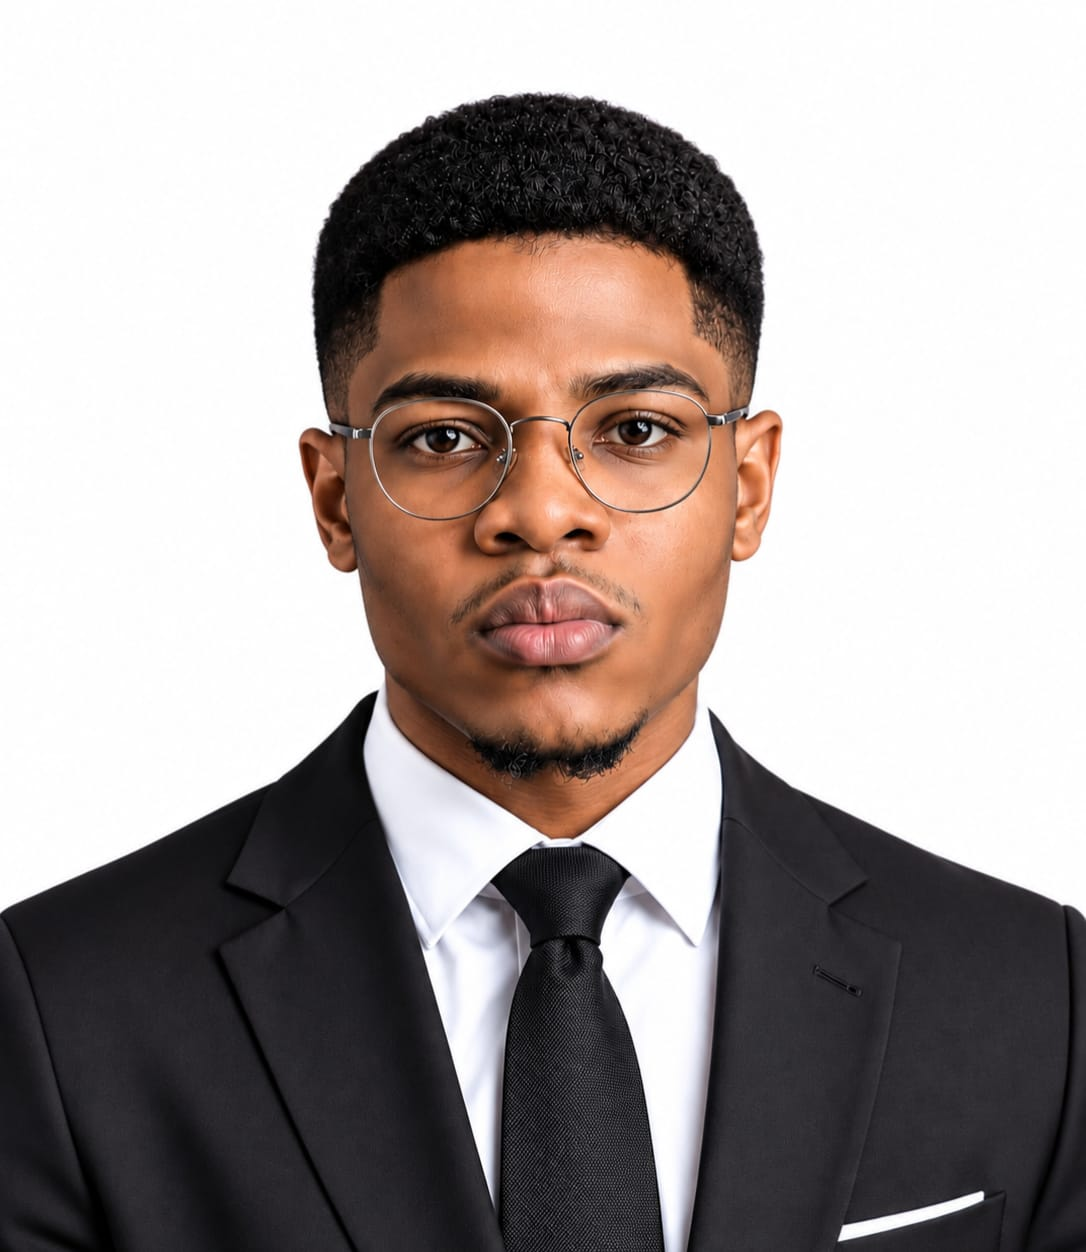
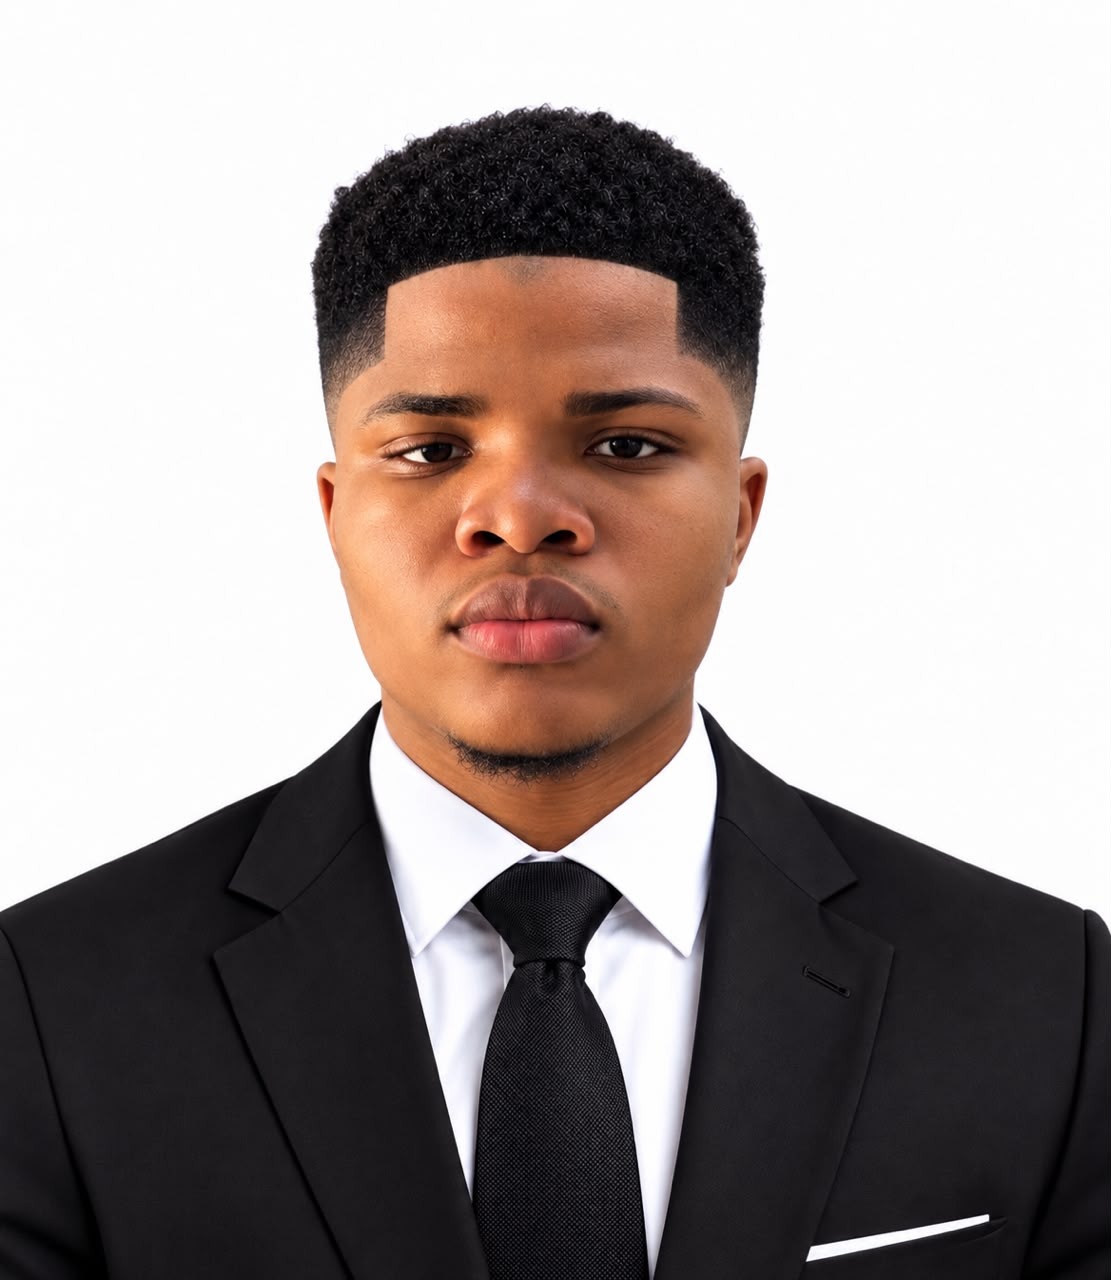
feat: more updates

diff --git a/data/projects.ts b/data/projects.ts
@@ -10,7 +10,11 @@ import {
 } from './media';
 
 export type ProjectStatus =
-  'Currently Selling' | 'Ongoing' | 'Completed' | 'Coming Soon';
+  | 'Currently Selling'
+  | 'Almost Sold Out'
+  | 'Ongoing'
+  | 'Completed'
+  | 'Coming Soon';
 
 export type Project = {
   slug: string;
@@ -61,7 +65,7 @@ export const projects: Project[] = [
     company: beaverstone,
     name: 'Roceilli',
     location: 'Grace City Estate (Phase 1), Dakwa District, Abuja',
-    status: 'Ongoing',
+    status: 'Currently Selling',
     category: 'Luxury Duplexes',
     tagline: 'Elegance, comfort and lasting value.',
     summary:
@@ -109,7 +113,7 @@ export const projects: Project[] = [
       { label: 'Carcass Price', value: '₦90,000,000' },
       { label: 'Pre-finished Price', value: '₦150,000,000' },
       { label: 'Finished Price', value: '₦180,000,000' },
-      { label: 'Project Status', value: 'Under Construction' },
+      // { label: 'Project Status', value: 'Under Construction' },
       { label: 'Completion', value: 'Q2 2027' },
       { label: 'Land Title', value: 'Right of Occupancy' },
     ],
@@ -124,7 +128,7 @@ export const projects: Project[] = [
     company: beaverstone,
     name: 'The Brooksville Estate',
     location: 'Hutu Exclusive Phase 2, Lugbe, Airport Road, Abuja',
-    status: 'Currently Selling',
+    status: 'Almost Sold Out',
     category: 'Land & Terraced Duplexes',
     tagline: 'Own Your Land. Build Your Future.',
     summary:
@@ -164,7 +168,7 @@ export const projects: Project[] = [
       { label: 'Total Units', value: '12' },
       { label: 'Land Price', value: '₦22,150,000' },
       { label: 'Duplex Price', value: '₦150,000,000' },
-      { label: 'Project Status', value: 'Currently Selling' },
+      { label: 'Project Status', value: 'Almost Sold Out' },
       { label: 'Completion', value: 'Q2 2027' },
       { label: 'Land Title', value: 'Certificate of Occupancy' },
     ],
@@ -230,7 +234,7 @@ export const projects: Project[] = [
     company: beaverstone,
     name: 'Beaverstone Nok Residence',
     location: 'Grace City Estate (Phase 1), Dakwa District, Abuja',
-    status: 'Ongoing',
+    status: 'Currently Selling',
     category: 'Luxury Duplexes',
     tagline: 'Elegance, comfort and lasting value.',
     summary:
@@ -278,7 +282,7 @@ export const projects: Project[] = [
       { label: 'Carcass Price', value: '₦90,000,000' },
       { label: 'Pre-finished Price', value: '₦150,000,000' },
       { label: 'Finished Price', value: '₦180,000,000' },
-      { label: 'Project Status', value: 'Under Construction' },
+      // { label: 'Project Status', value: 'Under Construction' },
       { label: 'Completion', value: 'Q4 2027' },
       { label: 'Land Title', value: "Governor's Consent" },
     ],
@@ -293,7 +297,7 @@ export const projects: Project[] = [
     company: beaverstone,
     name: 'The Eden Crown Estates',
     location: 'Katampe Extension, Abuja',
-    status: 'Ongoing',
+    status: 'Currently Selling',
     category: 'Terraced Duplexes',
     tagline: 'Refined Living. Elevated by Design.',
     summary:
@@ -322,7 +326,7 @@ export const projects: Project[] = [
       { label: 'Floors', value: '3' },
       { label: 'Total Units', value: '10' },
       { label: 'Starting Price', value: '₦370,000,000' },
-      { label: 'Project Status', value: 'Under Construction' },
+      // { label: 'Project Status', value: 'Under Construction' },
       { label: 'Completion', value: 'Q3 2027' },
       { label: 'Land Title', value: 'Certificate of Occupancy' },
     ],
@@ -337,7 +341,7 @@ export const projects: Project[] = [
     company: beaverstone,
     name: 'Nelmond Metropolis',
     location: 'Efab Metropolis, Karsana, Abuja',
-    status: 'Ongoing',
+    status: 'Currently Selling',
     category: 'Detached Duplexes',
     tagline: 'Space to Live. Freedom to Build. Value to Own.',
     summary:
@@ -374,7 +378,7 @@ export const projects: Project[] = [
       { label: 'Land Price', value: '₦85,000,000' },
       { label: 'DPC Level Price', value: '₦160,000,000' },
       { label: 'Carcass Level Price', value: '₦350,000,000' },
-      { label: 'Project Status', value: 'Under Construction' },
+      // { label: 'Project Status', value: 'Under Construction' },
       { label: 'Completion', value: 'Q4 2027' },
       { label: 'Land Title', value: 'Right of Occupancy' },
     ],
@@ -389,7 +393,7 @@ export const projects: Project[] = [
     company: beaverstone,
     name: 'Gardenia Court',
     location: 'Life Camp, Abuja',
-    status: 'Completed',
+    status: 'Almost Sold Out',
     category: 'Luxury Duplexes',
     tagline: 'A Refined Address. A Place to Call Home.',
     summary:
@@ -418,7 +422,7 @@ export const projects: Project[] = [
       { label: 'Floors', value: '3' },
       { label: 'Total Units', value: '5' },
       { label: 'Starting Price', value: '₦270,000,000' },
-      { label: 'Project Status', value: 'Completed' },
+      { label: 'Project Status', value: 'Almost Sold Out' },
       { label: 'Land Title', value: 'Certificate of Occupancy' },
     ],
     neighbourhood: {
@@ -432,7 +436,7 @@ export const projects: Project[] = [
     company: beaverstone,
     name: 'Nelmond Court',
     location: 'F01 Layout Phase 1, Kubwa, Abuja',
-    status: 'Ongoing',
+    status: 'Currently Selling',
     category: 'Terraced Duplexes',
     tagline: 'Modern Living. Within Reach. Built for the Future.',
     summary:
@@ -469,7 +473,7 @@ export const projects: Project[] = [
       { label: 'Plot Size', value: '180 sqm' },
       { label: 'Carcass Level Price', value: '₦90,000,000' },
       { label: 'Finished Level Price', value: '₦130,000,000' },
-      { label: 'Project Status', value: 'Under Construction' },
+      // { label: 'Project Status', value: 'Under Construction' },
       { label: 'Completion', value: 'Q3 2027' },
       { label: 'Land Title', value: 'Right of Occupancy' },
     ],

diff --git a/components/layout/Header.tsx b/components/layout/Header.tsx
@@ -43,20 +43,15 @@ export default function Header() {
       )}
     >
       <div className="mx-auto flex h-20 max-w-[1400px] items-center justify-between px-6 lg:px-12">
-        <Link href="/" className="flex flex-col items-center">
+        <Link href="/">
           <Image
-            src={dark ? logo.markWhite : logo.markNavy}
-            alt=""
-            width={86}
-            height={32}
+            src={dark ? logo.fullWhite : logo.fullNavy}
+            alt="Beaverstone"
+            width={1647}
+            height={690}
             priority
-            className="h-8 w-auto"
+            className="h-14 w-auto"
           />
-          <span className="font-display text-[12px] tracking-wide uppercase">
-            <span className={dark ? 'text-white' : 'text-ink-warm'}>
-              Beaverstone
-            </span>
-          </span>
         </Link>
 
         <nav className="hidden items-center lg:flex" aria-label="Primary">
@@ -90,17 +85,32 @@ export default function Header() {
                         animate={{ opacity: 1, y: 0 }}
                         exit={{ opacity: 0, y: 8 }}
                         transition={{ duration: 0.2, ease: 'easeOut' }}
-                        className="absolute top-full left-0 min-w-[240px] border-t-2 border-ink bg-white py-3 shadow-xl"
+                        className={cn(
+                          'absolute top-full left-0 min-w-[240px] border-t-2 border-ink bg-white py-3 shadow-xl',
+                          item.children.length > 5 &&
+                            'grid w-[520px] grid-cols-2'
+                        )}
                       >
-                        {item.children.map((child) => (
-                          <Link
-                            key={child.href}
-                            href={child.href}
-                            className="block px-6 py-2.5 text-[13px] text-ink-warm/70 transition-colors hover:bg-cream hover:text-ink"
-                          >
-                            {child.label}
-                          </Link>
-                        ))}
+                        {item.children.map((child) => {
+                          // Wide dropdowns pin their overview link to the bottom.
+                          const footer =
+                            item.children.length > 5 &&
+                            child.href === item.href;
+                          return (
+                            <Link
+                              key={child.href}
+                              href={child.href}
+                              className={cn(
+                                'block px-6 py-2.5 text-[13px] text-ink-warm/70 transition-colors hover:bg-cream hover:text-ink',
+                                footer &&
+                                  'order-last col-span-2 mt-2 border-t border-line pt-3 font-medium text-ink'
+                              )}
+                            >
+                              {child.label}
+                              {footer && ' →'}
+                            </Link>
+                          );
+                        })}
                       </motion.div>
                     )}
                   </AnimatePresence>

diff --git a/components/projects/ProjectCard.tsx b/components/projects/ProjectCard.tsx
@@ -21,7 +21,8 @@ export default function ProjectCard({
             sizes="(max-width: 640px) 100vw, (max-width: 1024px) 50vw, 33vw"
             imgClassName="transition-transform duration-700 ease-out group-hover:scale-105"
           />
-          {project.status === 'Currently Selling' && (
+          {(project.status === 'Currently Selling' ||
+            project.status === 'Almost Sold Out') && (
             <span className="absolute top-4 left-4 z-20 bg-mist px-3 py-1.5 text-[11px] font-medium tracking-widest text-ink uppercase">
               {project.status}
             </span>

diff --git a/app/layout.tsx b/app/layout.tsx
@@ -28,10 +28,8 @@ export const metadata: Metadata = {
     'Beaverstone is a luxury real estate company in Nigeria, creating exceptional living spaces across Lagos and Abuja.',
   metadataBase: new URL('https://example.com'),
   icons: {
-    icon: [
-      { url: '/icon-light.png', media: '(prefers-color-scheme: light)' },
-      { url: '/icon-dark.png', media: '(prefers-color-scheme: dark)' },
-    ],
+    // Single SVG that recolours itself; Safari ignores `media` on icon links.
+    icon: { url: '/icon.svg', type: 'image/svg+xml' },
     shortcut: '/favicon.ico',
   },
   openGraph: {

diff --git a/components/projects/ShowcaseCard.tsx b/components/projects/ShowcaseCard.tsx
@@ -23,7 +23,8 @@ export default function ShowcaseCard({
             sizes="(max-width: 1024px) 100vw, 50vw"
             imgClassName="transition-transform duration-700 ease-out group-hover:scale-105"
           />
-          {project.status === 'Currently Selling' && (
+          {(project.status === 'Currently Selling' ||
+            project.status === 'Almost Sold Out') && (
             <span className="absolute top-4 left-4 z-20 bg-mist px-3 py-1.5 text-[11px] font-medium tracking-widest text-ink uppercase">
               {project.status}
             </span>

diff --git a/components/home/Hero.tsx b/components/home/Hero.tsx
@@ -77,6 +77,7 @@ export default function Hero() {
           }}
         />
       ))}
+      <div className="absolute inset-0 bg-black/40" />
       <div className="absolute inset-0 bg-gradient-to-t from-ink via-ink/50 to-ink/20" />
 
       <div className="absolute top-1/2 right-6 z-10 hidden -translate-y-1/2 flex-col items-center gap-3 text-white/60 lg:right-12 lg:flex">

diff --git a/components/layout/Footer.tsx b/components/layout/Footer.tsx
@@ -67,8 +67,8 @@ export default function Footer() {
             <Image
               src={logo.fullWhite}
               alt="Beaverstone"
-              width={190}
-              height={91}
+              width={1647}
+              height={690}
               className="h-auto w-[190px]"
             />
           </Link>

diff --git a/data/media.ts b/data/media.ts
@@ -6,8 +6,8 @@
 export const logo = {
   markWhite: '/logo/beaverstone-mark-white.png',
   markNavy: '/logo/beaverstone-mark-navy.png',
-  fullWhite: '/logo/beaverstone-white.png',
-  fullNavy: '/logo/beaverstone-navy.png',
+  fullWhite: '/logo/white.png',
+  fullNavy: '/logo/colored.png',
 };
 
 export const video = {
